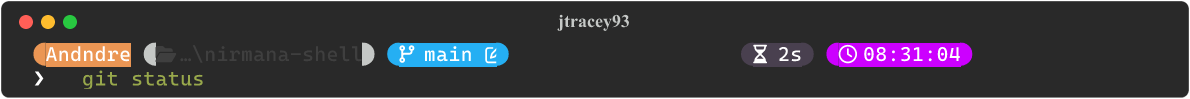
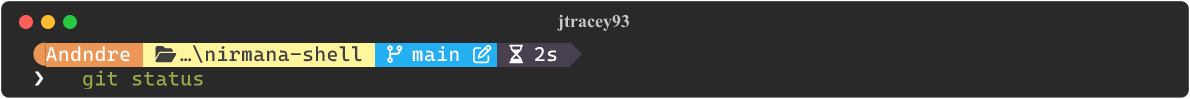
fix(transpiler): resolve continuous ribbon layout and omp color mappings for jtracey93

Changed region(s): [[0.0933, 0.4242, 0.4975, 0.697], [0.6218, 0.4242, 0.8395, 0.697]]

diff --git a/scripts/convert-omp.py b/scripts/convert-omp.py
@@ -38,6 +38,30 @@ GO_DATE_TO_STRFTIME = [
 ]
 
 
+OMP_COLOR_MAP = {
+    "lightyellow": "#FFF59D",
+    "lightblue": "#80D8FF",
+    "lightgreen": "#A5D6A7",
+    "lightcyan": "#80DEEA",
+    "lightmagenta": "#F48FB1",
+    "lightred": "#FF8A80",
+    "lightwhite": "#FFFFFF",
+    "lightblack": "#757575",
+    "darkgray": "#616161",
+    "darkgrey": "#616161",
+    "gray": "#9E9E9E",
+    "grey": "#9E9E9E",
+    "darkred": "#C62828",
+    "darkgreen": "#2E7D32",
+    "darkblue": "#1565C0",
+    "darkcyan": "#00838F",
+    "darkmagenta": "#6A1B9A",
+    "darkyellow": "#F9A825",
+    "white": "#FFFFFF",
+    "black": "#000000",
+}
+
+
 def convert_go_date_format(go_fmt: str) -> str:
     """Convert Go time reference format to strftime format."""
     res = go_fmt
@@ -67,6 +91,10 @@ def clean_template_tags(template_str: str, current_bg: Optional[str] = None, pal
 
         if not col or str(col).strip().lower() == "transparent":
             return ""
+
+        c_lower = str(col).strip().lower()
+        if c_lower in OMP_COLOR_MAP:
+            return OMP_COLOR_MAP[c_lower]
 
         h = col[1:] if col.startswith("#") else col
         if len(h) == 3 and all(c in "0123456789abcdefABCDEF" for c in h):
@@ -168,6 +196,10 @@ class OmpTranspiler:
         if not col or str(col).strip().lower() == "transparent":
             return None
 
+        c_lower = str(col).strip().lower()
+        if c_lower in OMP_COLOR_MAP:
+            return OMP_COLOR_MAP[c_lower]
+
         h = col[1:] if col.startswith("#") else col
         if len(h) == 3 and all(c in "0123456789abcdefABCDEF" for c in h):
             return f"#{h[0]*2}{h[1]*2}{h[2]*2}"
@@ -266,25 +298,64 @@ class OmpTranspiler:
                     "format": "([$all_status$ahead_behind](red) )",
                 }
 
-        # Sort left modules in canonical order: $username, $directory, $git_branch, $git_status
-        left_order = ["$username", "$directory", "$git_branch", "$git_status"]
-        self.line1_left = [m for m in left_order if m in detected_left]
-        for m in detected_left:
-            if m not in self.line1_left:
-                self.line1_left.append(m)
+        # Check if the theme is a continuous powerline/diamond ribbon
+        blocks = self.data.get("blocks", [])
+        has_right_block = any(b.get("alignment") == "right" or b.get("type") == "rprompt" for b in blocks)
+        b0_segs = blocks[0].get("segments", []) if blocks else []
 
-        # Sort right modules in canonical order:
-        # runtimes & cloud -> metrics -> cmd_duration -> time
-        def right_sort_key(mod: str) -> int:
-            if mod == "$cmd_duration":
-                return 80
-            elif mod == "$time":
-                return 90
-            elif mod in ("$memory_usage", "$battery", "$username"):
-                return 50
-            return 10
+        def get_seg_bg(s):
+            b_col = s.get("background", "")
+            if b_col.startswith("p:"):
+                b_col = self.palette.get(b_col[2:], "")
+            elif b_col in self.palette:
+                b_col = self.palette[b_col]
+            return None if not b_col or str(b_col).strip().lower() == "transparent" else b_col
 
-        self.line1_right = sorted(detected_right, key=right_sort_key)
+        is_continuous_ribbon = (
+            not has_right_block and
+            len(b0_segs) >= 2 and
+            all(bool(get_seg_bg(s)) for s in b0_segs if s.get("type") not in ("text", "status")) and
+            any(bool(s.get("trailing_diamond") or s.get("powerline_symbol") or s.get("leading_diamond")) for s in b0_segs)
+        )
+
+        if is_continuous_ribbon:
+            ribbon_order = ["$username", "$directory", "$git_branch", "$git_status", "$cmd_duration", "$time"]
+            all_detected = detected_left + detected_right
+            self.line1_left = [m for m in ribbon_order if m in all_detected]
+            self.line1_right = []
+
+            # Find trailing chevron from the end of block 0
+            last_b0_seg = b0_segs[-1] if b0_segs else {}
+            last_trailing = last_b0_seg.get("trailing_diamond") or last_b0_seg.get("powerline_symbol")
+            last_bg = get_seg_bg(last_b0_seg)
+            if not last_bg and len(b0_segs) >= 2:
+                last_bg = get_seg_bg(b0_segs[-2])
+
+            trailing_cap = self.format_diamond(last_trailing, last_bg) if last_trailing and last_bg else ""
+            if trailing_cap:
+                last_mod_name = self.line1_left[-1].replace("$", "")
+                if last_mod_name in self.modules:
+                    self.modules[last_mod_name]["format"] = self.modules[last_mod_name]["format"].rstrip() + trailing_cap + " "
+        else:
+            # Sort left modules in canonical order: $username, $directory, $git_branch, $git_status
+            left_order = ["$username", "$directory", "$git_branch", "$git_status"]
+            self.line1_left = [m for m in left_order if m in detected_left]
+            for m in detected_left:
+                if m not in self.line1_left:
+                    self.line1_left.append(m)
+
+            # Sort right modules in canonical order:
+            # runtimes & cloud -> metrics -> cmd_duration -> time
+            def right_sort_key(mod: str) -> int:
+                if mod == "$cmd_duration":
+                    return 80
+                elif mod == "$time":
+                    return 90
+                elif mod in ("$memory_usage", "$battery", "$username"):
+                    return 50
+                return 10
+
+            self.line1_right = sorted(detected_right, key=right_sort_key)
 
         # Line 2 modules: $sudo (if present) followed by $character
         self.line2_modules = []
@@ -379,12 +450,12 @@ class OmpTranspiler:
 
             style_str = self.build_style(fg, bg)
             content = f"{icon}$path"
-            if leading_fmt or trailing_fmt:
-                fmt = f"{leading_fmt}[{content}]({style_str}){trailing_fmt} "
-            elif bg:
-                fmt = f"[](fg:{bg})[{content}]({style_str})[](fg:{bg}) "
+            leading_part = leading_fmt or ""
+            trailing_part = trailing_fmt or ""
+            if bg:
+                fmt = f"{leading_part}[ {content} ]({style_str}){trailing_part}"
             else:
-                fmt = f"[{content}]({fg or 'cyan'}) "
+                fmt = f"{leading_part}[{content}]({style_str or (fg or 'cyan')}){trailing_part} "
 
             self.modules["directory"] = {
                 "format": fmt,
@@ -405,23 +476,18 @@ class OmpTranspiler:
             branch_icon = f"{branch_icon} "
             style_str = self.build_style(fg, bg)
 
-            if leading_fmt:
-                branch_fmt = f"{leading_fmt}[{branch_icon}$branch]({style_str})"
-            elif bg:
-                branch_fmt = f"[](fg:{bg})[{branch_icon}$branch]({style_str})"
-            else:
-                branch_fmt = f"[{branch_icon}$branch]({fg or 'purple'})"
+            leading_part = leading_fmt or ""
+            branch_fmt = f"{leading_part}[ {branch_icon}$branch]({style_str})" if bg else f"[{branch_icon}$branch]({fg or 'purple'})"
 
             self.modules["git_branch"] = {
                 "format": branch_fmt,
             }
 
             status_style = style_str if bg else (fg or "purple")
-            end_cap = trailing_fmt if trailing_fmt else (f"[](fg:{bg}) " if bg else " ")
-            if end_cap and not end_cap.endswith(" "):
-                end_cap = f"{end_cap} "
+            end_cap = trailing_fmt or (" " if not bg else "")
+            status_content = "[$all_status$ahead_behind ]" if bg else "[$all_status$ahead_behind]"
             self.modules["git_status"] = {
-                "format": f"([$all_status$ahead_behind]({status_style}){end_cap})",
+                "format": f"({status_content}({status_style}){end_cap})",
                 "modified": " ",
                 "staged": " ",
                 "stashed": " ",
@@ -442,10 +508,10 @@ class OmpTranspiler:
                 trailing_style = self.build_style("white", bg)
                 trailing_text = f"[ on]({trailing_style})"
 
-            if leading_fmt or trailing_fmt:
-                fmt = f"{leading_fmt}[$user]({style_str}){trailing_text}{trailing_fmt} "
-            elif bg:
-                fmt = f"[](fg:{bg})[{user_icon}$user]({style_str})[](fg:{bg}) "
+            leading_part = leading_fmt or ""
+            trailing_part = trailing_fmt or ""
+            if bg:
+                fmt = f"{leading_part}[$user ]({style_str}){trailing_text}{trailing_part}"
             else:
                 fmt = f"[{user_icon}](#ff70a6)[$user]({fg or 'yellow'}){trailing_text} "
 
@@ -460,14 +526,10 @@ class OmpTranspiler:
             strftime_fmt = convert_go_date_format(raw_time_fmt)
             style_str = self.build_style(fg, bg)
 
-            if leading_fmt or trailing_fmt:
-                leading_part = leading_fmt if leading_fmt else ""
-                trailing_part = trailing_fmt if trailing_fmt else ""
-                if trailing_part and not trailing_part.endswith(" "):
-                    trailing_part = f"{trailing_part} "
-                fmt = f"{leading_part}[ $time]({style_str}){trailing_part}"
-            elif bg:
-                fmt = f"[](fg:{bg})[ $time]({style_str})[](fg:{bg}) "
+            leading_part = leading_fmt or ""
+            trailing_part = trailing_fmt or ""
+            if bg:
+                fmt = f"{leading_part}[  $time ]({style_str}){trailing_part}"
             else:
                 fmt = f"[ $time]({fg or 'yellow'}) "
 
@@ -486,14 +548,10 @@ class OmpTranspiler:
             elif "\ueba2" in template:
                 icon = " "
 
-            if leading_fmt or trailing_fmt:
-                leading_part = leading_fmt if leading_fmt else (f"[](fg:{bg})" if bg else "")
-                trailing_part = trailing_fmt if trailing_fmt else (f"[](fg:{bg})" if bg else "")
-                if trailing_part and not trailing_part.endswith(" "):
-                    trailing_part = f"{trailing_part} "
-                fmt = f"{leading_part}[{icon}$duration]({style_str}){trailing_part}"
-            elif bg:
-                fmt = f"[](fg:{bg})[{icon}$duration]({style_str})[](fg:{bg}) "
+            leading_part = leading_fmt or ""
+            trailing_part = trailing_fmt or ""
+            if bg:
+                fmt = f"{leading_part}[ {icon}$duration ]({style_str}){trailing_part}"
             else:
                 fmt = f"[{icon}$duration]({fg or 'yellow'}) "
 
